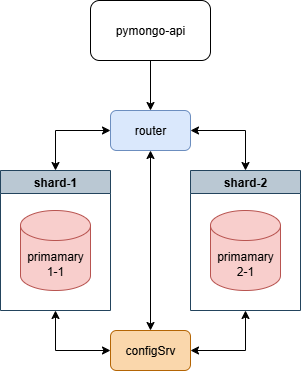
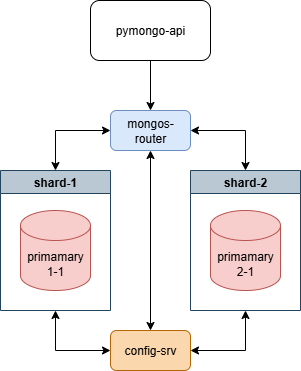
task-2

Changed region(s): [[0.4186, 0.9191, 0.598, 0.9784], [0.4186, 0.3261, 0.5681, 0.3854]]

diff --git a/README.md b/README.md
@@ -48,3 +48,207 @@ curl --silent http://ifconfig.me
 [схема вар-3](schemas%2Ftask-1%2Fschema_v3.drawio)
 
 ![schema_v3.png](schemas%2Ftask-1%2Fimg%2Fschema_v3.png)
+
+
+## Задание 2
+Для запуска проекта выполняем следующие команды:
+
+1) запуск контейнеров:
+
+```shell
+docker-compose -f mongo-sharing.yaml up -d
+```
+
+2) инициализация сервера конфигурации:
+
+```shell
+docker exec -it config-srv mongosh --port 27017 
+```
+
+далее выполняется команда:
+
+```shell
+rs.initiate(
+  {
+    _id : "config-server",
+       configsvr: true,
+    members: [
+      { _id : 0, host : "config-srv:27017" }
+    ]
+  }
+);
+```
+```shell
+exit();
+```
+
+3) инициализация шардов:
+
+шард №1
+
+```shell
+docker exec -it shard-1 mongosh --port 27018
+```
+```shell
+rs.initiate(
+    {
+      _id : "shard-1",
+      members: [
+        { _id : 0, host : "shard-1:27018" },
+      ]
+    }
+);
+```
+```shell
+exit()
+```
+
+шард №2
+
+```shell
+docker exec -it shard-2 mongosh --port 27019
+```
+```shell
+rs.initiate(
+    {
+      _id : "shard-2",
+      members: [
+        { _id : 1, host : "shard-2:27019" }
+      ]
+    }
+);
+```
+```shell
+exit()
+```
+
+4) Инициализация роутера:
+
+```shell
+docker exec -it mongos-router mongosh --port 27020
+```
+```shell
+sh.addShard( "shard-1/shard-1:27018");
+sh.addShard( "shard-2/shard-2:27019");
+```
+
+5) создание БД и документа:
+
+```shell
+sh.enableSharding("somedb");
+sh.shardCollection("somedb.helloDoc", { "name" : "hashed" } );
+```
+
+6) заполнение тестовыми данными:
+
+```shell
+use somedb;
+for(var i = 0; i < 1000; i++) db.helloDoc.insert({age:i, name:"ly"+i});
+```
+```shell
+exit()
+```
+
+ТЕСТИРОВАНИЕ РАБОТОСПОСОБНОСТИ
+
+1) Проверка работы сервиса осуществляется через swagger:
+
+![fig-1.png](img%2Ffig-1.png)
+
+фиг. 1 - swagger-страница приложения api_app
+
+При вызове:
+
+```shell
+curl -X 'GET' 'http://localhost:8086/' -H 'accept: application/json'
+```
+
+возвращается ответ
+
+```json
+{
+  "mongo_topology_type": "Sharded",
+  "mongo_replicaset_name": null,
+  "mongo_db": "somedb",
+  "read_preference": "Primary()",
+  "mongo_nodes": [
+    [
+      "mongos-router",
+      27020
+    ]
+  ],
+  "mongo_primary_host": null,
+  "mongo_secondary_hosts": [],
+  "mongo_is_primary": true,
+  "mongo_is_mongos": true,
+  "collections": {
+    "helloDoc": {
+      "documents_count": 1002
+    }
+  },
+  "shards": {
+    "shard-1": "shard-1/shard-1:27018",
+    "shard-2": "shard-2/shard-2:27019"
+  },
+  "cache_enabled": false,
+  "status": "OK"
+}
+```
+
+![fig-2.png](img%2Ffig-2.png)
+
+фиг. 2 - результат выполнения запроса
+
+Видно, что имеются два шарда (**shard-1**, **shard-2**), а общее количество записей **1002**.
+
+2) Проверка успешности шардирования:
+
+Проверка общего количества записей через команды:
+
+```shell
+docker exec -it mongos-router mongosh --port 27020
+```
+```shell
+use somedb;
+db.helloDoc.countDocuments();
+```
+Общее количество - **1002**
+
+![fig-3.png](img%2Ffig-3.png)
+
+фиг. 3 - общее количество записей в БД
+
+Проверка количества записей в шарде **shard-1**
+
+```shell
+docker exec -it shard-1 mongosh --port 27018
+```
+```shell
+use somedb;
+db.helloDoc.countDocuments();
+```
+
+Количество **494**
+
+![fig-4.png](img%2Ffig-4.png)
+
+фиг. 4 - количество записей в shard-1
+
+
+Проверка количества записей в шарде **shard-2**
+
+```shell
+docker exec -it shard-2 mongosh --port 27019
+```
+```shell
+use somedb;
+db.helloDoc.countDocuments();
+```
+
+Количество **508**
+
+![fig-5.png](img%2Ffig-5.png)
+
+фиг. 4 - количество записей в shard-2
+
+Шардирование работает штатно
